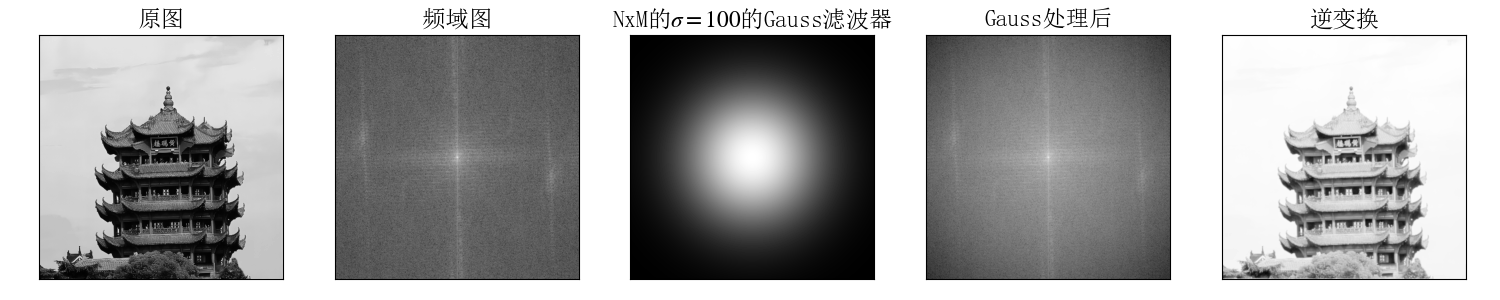
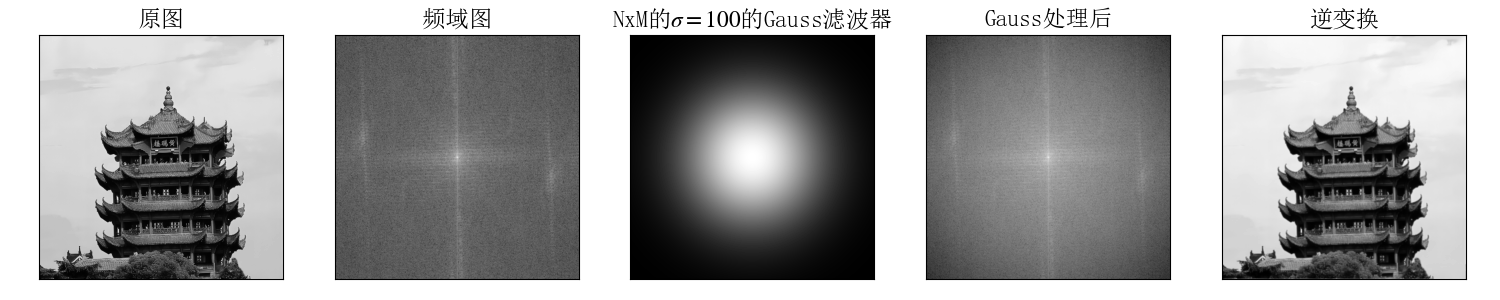
修改频域滤波

diff --git a/code/hw1/GaussianFilter.py b/code/hw1/GaussianFilter.py
@@ -151,8 +151,8 @@ fft1 = fft(img_gray)
 # gauss_magnitude = conv(fft1[2], filter).squeeze()
 # draw_some((img_gray, '原图'), (show_freq(fft1[2]), '原频域'), (show_freq(gauss_magnitude), 'Gauss处理后'),
 #           (combine_magnitude_phase(gauss_magnitude, fft1[3]), '逆变换图像'))
-
-filter = gauss_filter_fixed(img.shape[0], img.shape[1], 100)[:, :, 0]
+sigma = 100
+filter = gauss_filter_fixed(img.shape[0], img.shape[1], sigma)[:, :, 0]
 gauss_fft = fft1[0] * filter
-draw_some((img_gray, '原图'), (show_freq(fft1[0]), '频域图'), (filter, 'NxM的$\sigma=100$的Gauss滤波器', 'clip'),
-          (show_freq(gauss_fft), 'Gauss处理后'), (show_freq(np.fft.ifft2(gauss_fft)), '逆变换'))
+draw_some((img_gray, '原图'), (show_freq(fft1[0]), '频域图'), (filter, f'NxM的$\sigma={sigma}$的Gauss滤波器', 'clip'),
+          (show_freq(gauss_fft), 'Gauss处理后'), (np.abs(np.fft.ifft2(gauss_fft)), '逆变换'))

diff --git a/code/hw1/note.md b/code/hw1/note.md
@@ -153,8 +153,8 @@ $$
 
 使用大 $\sigma$ 和频域做点积的结果，和使用小 $\sigma$ 高斯核直接与图像做卷积得到的效果应该类似，突出细节（由理论推导最后一问可保证）
 
-![image-20220930132018468](./note.figure/频域滤波simg=100.png)
+![image-20220930141330960](./note.figure/频域滤波simg=100.png)
 
 使用小 $\sigma$ 时注意输出频域图像时，不要再用 $log$ 进行调整了，因为像素已经相对非常集中了. 类似于使用大 $\sigma$ 直接对图像进行卷积得到的效果，即高斯模糊.
 
-![image-20220930131943032](./note.figure/频域滤波simg=10.png)
+![image-20220930141312058](./note.figure/频域滤波simg=10.png)
